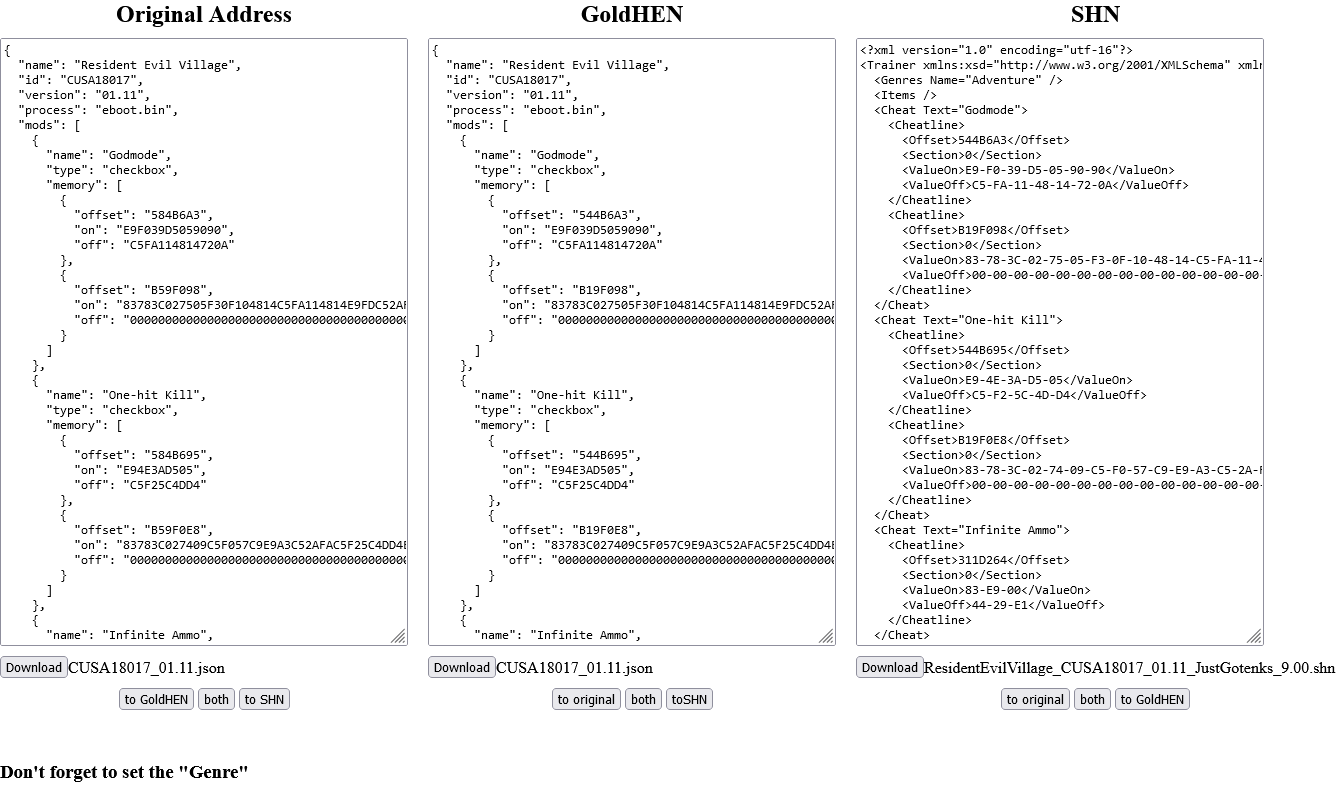
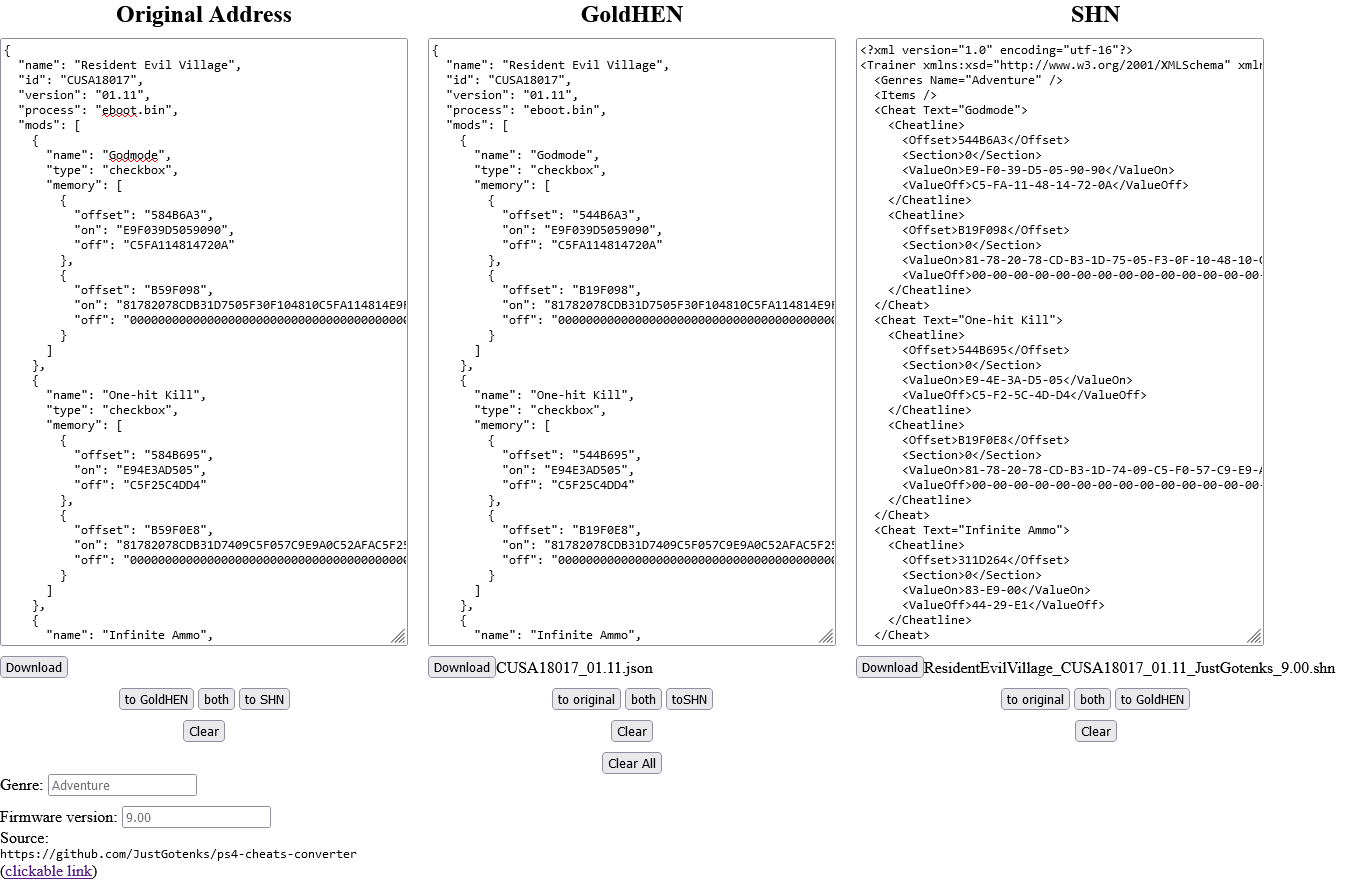
added clear buttons and input fields for shn

diff --git a/index.html b/index.html
@@ -4,7 +4,81 @@
   <meta charset="UTF-8">
   <meta http-equiv="X-UA-Compatible" content="IE=edge">
   <meta name="viewport" content="width=device-width, initial-scale=1.0">
-  <title>Document</title>
+  <title>PS4 Cheats Converter</title>
+</head>
+
+<body>
+  <div class="main-container">
+
+    <div id="OG">
+      <div class="type"><h2>Original Address</h2></div>
+      <textarea></textarea>
+
+      <div class="DL-line">
+        <button>Download</button>
+        <p></p>
+      </div>
+
+      <div class="convertTo">
+        <button id="OG-to-GoldHEN">to GoldHEN</button>
+        <button id="OG-to-both">both</button>
+        <button id="OG-to-SHN">to SHN</button>
+      </div>
+
+      <div class="clear"><button>Clear</button></div>
+    </div>
+
+
+    <div id="GoldHEN">
+      <div class="type"><h2>GoldHEN</h2></div>
+      <textarea></textarea>
+
+      <div class="DL-line">
+        <button>Download</button>
+        <p></p>
+      </div>
+
+      <div class="convertTo">
+        <button id="GoldHEN-to-OG">to original</button>
+        <button id="GoldHEN-to-both">both</button>
+        <button id="GoldHEN-to-SHN">toSHN</button>
+      </div>
+
+      <div class="clear"><button>Clear</button></div>
+      <div class="clearAll"><button>Clear All</button></div>
+    </div>
+
+
+    <div id="SHN">
+      <div class="type"><h2>SHN</h2></div>
+      <textarea></textarea>
+
+      <div class="DL-line">
+        <button>Download</button>
+        <p></p>
+      </div>
+
+      <div class="convertTo">
+        <button id="SHN-to-OG">to original</button>
+        <button id="SHN-to-both">both</button>
+        <button id="SHN-to-GoldHEN">to GoldHEN</button>
+      </div>
+
+      <div class="clear"><button>Clear</button></div>
+    </div>
+  </div>
+
+  <div id="info">
+    <div>
+      <p>Genre: <input type="text" placeholder="Adventure" id="genre"></p>
+    </div>
+    <div>
+      <p>Firmware version: <input type="text" placeholder="9.00" id="fwv"></p>
+    </div>
+  </div>
+
+  <div><p>Source: <pre>https://github.com/JustGotenks/ps4-cheats-converter</pre> (<a href="https://github.com/JustGotenks/ps4-cheats-converter">clickable link</a>)</p></div>
+
   <style>
     * {
       margin: 0;
@@ -26,12 +100,14 @@
       flex-direction: row;
       gap: 20px;
     }
-    .main-container > [id] {
+    .main-container > [id],
+    #info {
       display: flex;
       flex-direction: column;
       gap: 10px;
     }
-    .main-container > [id] .convertTo {
+    .main-container > [id] .convertTo,
+    .main-container > [id] [class^='clear'] {
       align-self: center;
     }
     .type {
@@ -43,71 +119,6 @@
       align-items: center;
     }
   </style>
-</head>
-<body>
-  <div class="main-container">
-
-
-    <div id="OG">
-      <div class="type"><h2>Original Address</h2></div>
-
-      <textarea></textarea>
-
-      <div class="DL-line">
-        <button>Download</button>
-        <p></p>
-      </div>
-
-      <div class="convertTo">
-        <button id="OG-to-GoldHEN">to GoldHEN</button>
-        <button id="OG-to-both">both</button>
-        <button id="OG-to-SHN">to SHN</button>
-      </div>
-    </div>
-
-
-
-    <div id="GoldHEN">
-      <div class="type"><h2>GoldHEN</h2></div>
-
-      <textarea></textarea>
-
-      <div class="DL-line">
-        <button>Download</button>
-        <p></p>
-      </div>
-
-      <div class="convertTo">
-        <button id="GoldHEN-to-OG">to original</button>
-        <button id="GoldHEN-to-both">both</button>
-        <button id="GoldHEN-to-SHN">toSHN</button>
-      </div>
-    </div>
-
-
-
-    <div id="SHN">
-      <div class="type"><h2>SHN</h2></div>
-
-      <textarea></textarea>
-
-      <div class="DL-line">
-        <button>Download</button>
-        <p></p>
-      </div>
-
-      <div class="convertTo">
-        <button id="SHN-to-OG">to original</button>
-        <button id="SHN-to-both">both</button>
-        <button id="SHN-to-GoldHEN">to GoldHEN</button>
-      </div>
-    </div>
-  </div>
-
-
-  <div>
-    <h3>Don't forget to set the "Genre"</h3>
-  </div>
   <script src="./main.js"></script>
 </body>
 </html>

diff --git a/main.js b/main.js
@@ -20,7 +20,7 @@ const shnFilename = (shnStr) => {
   const creator = trainerEle.attributes['Moder'].value;
   const cusa = trainerEle.attributes['Cusa'].value;
   const version = trainerEle.attributes['Version'].value;
-  const FWv = '9.00';
+  const FWv = document.getElementById('fwv').value || '9.00';
   return `${game}_${cusa}_${version}_${creator}_${FWv}.shn`;
 }
 
@@ -33,7 +33,7 @@ const onlyHex = (str) => str.replaceAll(/[^a-zA-Z0-9]/g, '');
 
 
 const toSHN = (jsonObj, toSubOffset=false) => {
-  const genre = 'Adventure';
+  const genre = document.getElementById('genre').value || 'Adventure';
 
   let xmlStr =`<?xml version="1.0" encoding="utf-16"?>
 <Trainer xmlns:xsd="http://www.w3.org/2001/XMLSchema" xmlns:xsi="http://www.w3.org/2001/XMLSchema-instance" Game="${jsonObj.name}" Moder="${jsonObj.credits.join(', ')}" Cusa="${jsonObj.id}" Version="${jsonObj.version}" Process="${jsonObj.process}">
@@ -207,3 +207,12 @@ shnButtonDL.onclick = () => {
   downloadLink.click();
   URL.revokeObjectURL(downloadLink.href);
 }
+
+
+const clear = (choice) => document.querySelector(`#${choice} textarea`).value = '';
+document.querySelector('#OG .clear button').onclick = () => clear('OG');
+document.querySelector('#GoldHEN .clear button').onclick = () => clear('GoldHEN');
+document.querySelector('#SHN .clear button').onclick = () => clear('SHN');
+document.querySelector('#GoldHEN .clearAll button').onclick = () => {
+  ['OG', 'GoldHEN', 'SHN'].forEach(choice => clear(choice));
+};
